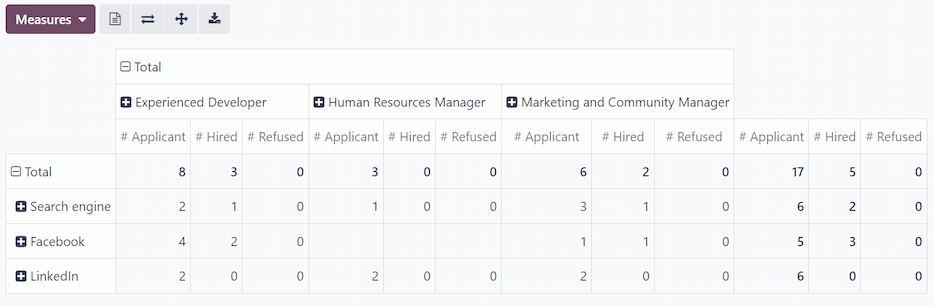
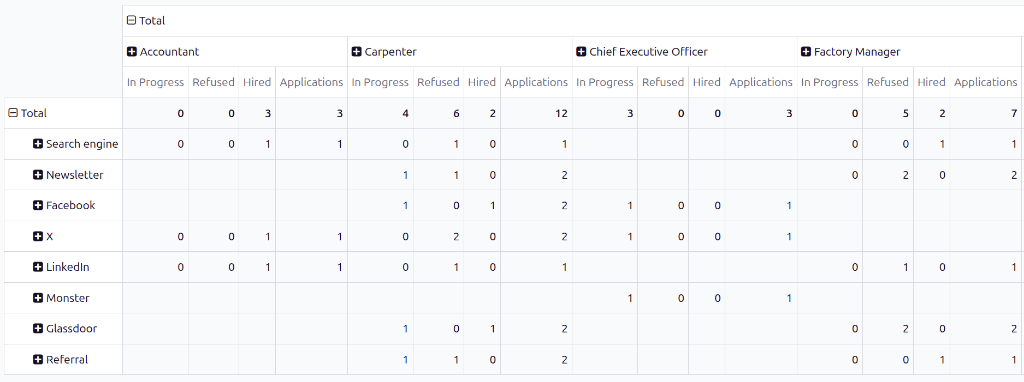
[IMP] Recruitment - Update Source Analysis
X-original-commit: cc2f95226af8dab77c5abed47e59bb4423cd334f

diff --git a/content/applications/hr/recruitment/source_analysis.rst b/content/applications/hr/recruitment/source_analysis.rst
@@ -1,6 +1,6 @@
-=========================
-Source analysis reporting
-=========================
+===============
+Source analysis
+===============
 
 Reporting is a critical tool used by recruiting departments to gain insights into the entire
 recruitment process.
@@ -16,11 +16,12 @@ Open report
 To access the *Source Analysis* report, navigate to :menuselection:`Recruitment app --> Reporting
 --> Source Analysis`.
 
-This presents the data for the :icon:`fa-filter` :guilabel:`Last 365 Days Applicant`, in a default
-:icon:`fa-area-chart` :guilabel:`(Graph)` view, showing the amount of applicants by
-:guilabel:`Source`, and further separated by stage (:guilabel:`In Progress` and :guilabel:`Hired`)
+This presents the data for the last 365 days in a default :icon:`fa-database` :guilabel:`(Stacked)`
+:icon:`fa-bar-chart` :guilabel:`(Bar Chart)` view. It shows the amount of applicants by source and
+separated by status (:guilabel:`In Progress`, :guilabel:`Hired`, and :guilabel:`Refused`),
 
-Hover the cursor over any column to view the specific numbers fort that column.
+Hover the cursor over any color-coded section of a column to view the specific numbers for that
+status column.
 
 .. image:: source_analysis/source-analysis.png
    :alt: The default bar chart of the source analysis information.
@@ -29,30 +30,24 @@ Source effectiveness report
 ===========================
 
 To identify which sources (e.g., job boards, social media, employee referrals, company website)
-produce the most hires, the pivot table view of the :guilabel:`Source Analysis` report can be
-configured to display further details.
+produce the most hires, the pivot table view of the *Source Analysis* report can be configured to
+display further details.
 
-To view the :guilabel:`Source Analysis` report in a pivot table, click the :icon:`oi-view-pivot`
-:guilabel:`(Pivot)` icon in the top-right corner. The data is presented in a pivot table, with rows
-populated by job positions, and columns populated by stages.
+To view the *Source Analysis* report in a pivot table, click the :icon:`oi-view-pivot`
+:guilabel:`(Pivot)` icon in the corner. The data is presented in a pivot table, with rows populated
+by sources, and columns populated by stages.
 
-To expand this chart to show what specific sources the applicants came from, click the
-:icon:`fa-plus-square` :guilabel:`Total` box above the columns, to reveal a drop-down menu, and
-click :guilabel:`Source`.
+To expand this chart to show what specific job positions the applicants applied to from each source,
+click the :icon:`fa-plus-square` :guilabel:`Total` box above the columns to reveal a drop-down menu,
+and click :guilabel:`Job Position`.
 
-Each column is then grouped by the source, such as: :guilabel:`Search engine`, :guilabel:`Facebook`,
-:guilabel:`LinkedIn`, etc. Each source displays a separate count for :guilabel:`Applicant`,
-:guilabel:`Hired`, and :guilabel:`Refused`.
-
-This information, as presented, makes it difficult to view the specific numbers for each source.
-Click the :icon:`fa-exchange` :guilabel:`(Flip axis)` icon, to swap the information. After that, the
-rows represent the source, and the columns represent the job positions, further divided by stage.
+Each column is then grouped by the job position, such as *Accountant* or *Carpenter*. Each job
+position displays a separate count for applications :guilabel:`In Progress`, :guilabel:`Refused`, or
+:guilabel:`Hired`, and an :guilabel:`Applications` column which displays the total count of all
+statuses.
 
 .. image:: source_analysis/source-pivot.png
-   :alt: The axes flipped in the source analysis report, in pivot table view.
-
-In this view, the total number of applicants, hired employees, and refused applicants, are displayed
-for each source, as well as for each stage by job position.
+   :alt: The pivot table view displaying each job position and its source and stage.
 
 Medium
 ------
@@ -61,22 +56,22 @@ Viewing the medium for the applicants can be beneficial to see which specific me
 successful.
 
 *Mediums* are the specific methods the applicant used to discover and then apply for job positions,
-such as organic search, paid search, social media ad, email, etc.
+such as a search engine, social media ad, email, banner, etc.
 
 To further group the results by medium, click into one of the :icon:`fa-plus-square`
-:guilabel:`[Source]` rows. Click :guilabel:`Medium` in the resulting drop-down menu. The row
-presents the specific mediums, relevant to that specific source.
+:guilabel:`(Source)` rows then click :guilabel:`Medium` in the resulting drop-down menu. The row
+presents the individual mediums relevant to that specific source.
 
 Once :guilabel:`Medium` is selected for one source, clicking into another row automatically reveals
 the specific metrics for the mediums for that source.
 
-.. image:: source_analysis/medium.png
-   :alt: The sources rows, expanded to also show the medium for each source.
-
 .. note::
-   The only mediums that appear for a source, are mediums that have been set on an applicant's form.
+   The only mediums that appear for a source are mediums that have been set on an applicant's form.
    If a medium has **not** been set for any applicants, the medium does not appear in the drop-down
    rows beneath the source.
 
    For example, if no applicants applied with the medium *Google Adwords*, that medium does **not**
    appear beneath the *Search engine* source row.
+
+.. image:: source_analysis/medium.png
+   :alt: The source rows, expanded to also show the medium for each source.
